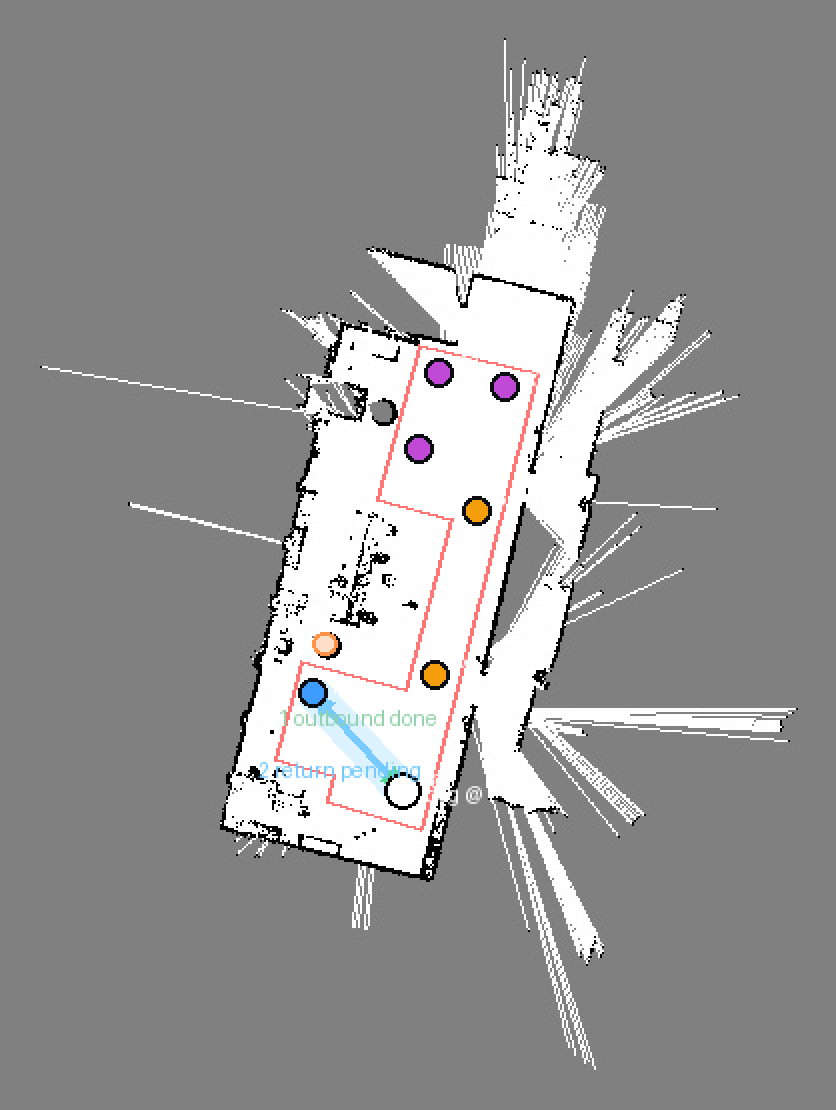
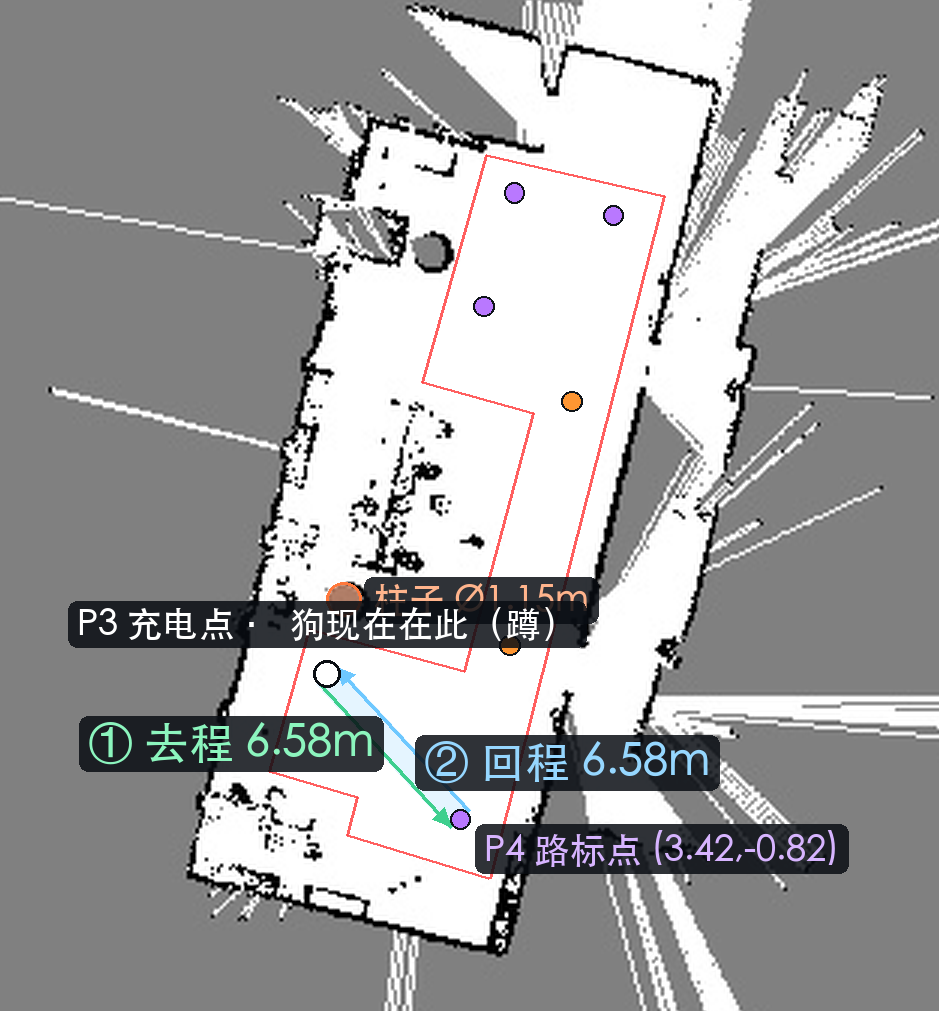
backup: ouxuedongdemacbook-pro 2026-08-06 20:56:35 -0700

diff --git a/artifacts/maps/2420/2420-lab-map.html b/artifacts/maps/2420/2420-lab-map.html
@@ -103,41 +103,62 @@
   </section>
   <aside>
     <div class="warn">
-      🔴 <b>自动蹲下充电：做不到</b><br/>
-      平台充电房配置为空（<code>getRoomPageDate total=0</code>），
-      P3「充电点」只是点位标记，没有关联充电桩。
-      <code>One Key Return</code> 最多把狗走回 P3，<b>不会真的充上电</b>。<br/>
-      ✅ 可做：P4 → P3 拓扑派单回充电点坐标；到站后可在 Body Control 手动点 <code>Crouch</code>。<br/>
-      ⚠ 电量现约 <b>35%</b>，站姿仍在放电；回桩后需人工插线才续航。
+      🔴 <b>本次头号风险：遥控器 START 会让派单空转</b><br/>
+      11:32 与 11:36 两程狗<b>一步没动</b>，平台却双双记
+      <code>result=成功</code>（183 s / 63 s）。原因判断：遥控器进入
+      START 运动模式后持续下发摇杆量（=0），机载按「遥控优先」仲裁，
+      把平台速度压成 0。<br/>
+      ⛔ <b>所以：遥控器要开机（保住 L2+B 急停），但绝不能按 START。</b>
+      保险起见先把遥控器<b>重新开关机一次</b>清掉模式，再用
+      <code>L2+A</code> 让狗站起。
+    </div>
+    <div class="warn">
+      ⚠ <b>「成功」不等于走到了</b>——平台不校验位移。本次判成败只认
+      两条：肉眼看狗真的走 + 大屏图标真的移动。<code>result</code> 字段仅作参考。
     </div>
 
-    <h2>当前状态（11:17 查）</h2>
+    <h2>当前状态（11:50 查）</h2>
     <div class="card recommend">
-      <div>狗在：<strong>路标点 P4</strong>（右下/最下角紫点）</div>
-      <div style="margin-top:4px"><code>(3.42, -0.82)</code> · state=02 空闲 · bat≈35%</div>
+      <div>狗在：<strong>P3 充电点</strong>（蓝点，蹲姿趴在充电板上）</div>
+      <div style="margin-top:4px"><code>(-1.03, 4.03)</code> · state=02 空闲 · bat <b>31%</b></div>
       <div style="margin-top:4px;color:var(--muted);font-size:.82rem">
-        第一次测试已完成 P3→P4；本次只补「回程」即完成往返。
+        自 11:27 起未移动过；11:32 / 11:36 两个「成功」任务均为空转。
       </div>
     </div>
 
-    <h2>拟走路线（往返）</h2>
+    <h2>拟走路线（完整往返）</h2>
     <ol class="plan">
-      <li><span style="color:#8fd0a8">① 去程（已完成）</span>：P3 充电点 → P4 紫路标，6.58 m</li>
-      <li><span style="color:#6ec8ff"><b>② 回程（待确认执行）</b></span>：P4 → P3<br/>
+      <li><span style="color:#8fd0a8"><b>① 去程</b></span>：P3 充电点 → P4 紫路标<br/>
+        <code>pointsId</code>：<code>202607311046080138B2000397</code><br/>
+        距离 <b>6.58 m</b> · 参考耗时 92 s（11:01 真实走通那次）</li>
+      <li><span style="color:#6ec8ff"><b>② 回程</b></span>：P4 → P3 充电点<br/>
         <code>pointsId</code>：<code>202607311045581570B2000397</code><br/>
-        距离 <b>6.58 m</b> · 最窄净空 <b>1.80 m</b>（与去程同线反向）</li>
-      <li><b>③ 到站后</b>：Body Control 手动 <code>Crouch</code>（恢复蹲姿）</li>
-      <li><b>④ 充电</b>：人工插线（平台无法自动对桩）</li>
+        距离 <b>6.58 m</b> · 最窄净空 <b>1.80 m</b> · 参考耗时 63 s</li>
+      <li><b>③ 朝向复位</b>：到站后用<b>平台 Body Control 摇杆</b>转到原朝向
+        （相机里柱子居中≈1.6 m 即复位）。<br/>
+        <span style="color:#ff9c6e">不要用 Redirect——那改的是定位估计，不是狗的真实朝向，
+        会污染刚校准好的定位。</span></li>
+      <li><b>④ 蹲下</b>：Body Control 点 <code>Crouch</code>；充电仍需人工确认</li>
     </ol>
 
-    <h2>执行顺序（确认后）</h2>
+    <h2>执行顺序</h2>
     <ol class="plan">
-      <li>大屏确认狗图标仍在 P4、定位未飘</li>
-      <li>主人回「GO」→ <code>sendNavigate</code> 到充电点 P3</li>
-      <li>盯任务：state 02→03→02；肉眼看狗是否贴到蓝色充电点</li>
-      <li>到站后手动 Crouch；插线充电</li>
-      <li>兜底：遥控 <b>L2+B</b> · 摇杆 🔴STOP · 平台 <code>stopTask</code></li>
+      <li><b>门禁</b>：遥控器关机→开机（清 START 模式）→ <code>L2+A</code> 站起 →
+        <b>不按 START</b> → 主人说「好了」</li>
+      <li>我发去程单 → 派单后 <b>30 s 内狗必须可见地动</b>，否则我立刻
+        <code>stopTask</code> 中止，不再空烧 183 s</li>
+      <li>到 P4 → 主人肉眼确认到位 → 我发回程单（同样 30 s 位移门禁）</li>
+      <li>回到 P3 → Body Control 转朝向 → <code>Crouch</code></li>
+      <li>兜底：遥控 <b>L2+B</b> 软趴 · 大屏 🔴STOP · 平台 <code>stopTask</code></li>
     </ol>
+
+    <div class="card">
+      <div style="color:#ff9c6e"><b>电量 31%，这是本次唯一硬约束</b></div>
+      <div style="margin-top:4px;color:var(--muted);font-size:.82rem">
+        两程合计约 13 m / 3 分钟行走。若门禁反复失败，先停下查原因，
+        不要靠反复派单试错——每次空转 183 s 都在白耗电。
+      </div>
+    </div>
 
     <h2>点位列表</h2>
     <div id="list"></div>
@@ -146,9 +167,10 @@
       <div>🟣 路标 (08)　🟠 巡检 (01)　🔵 充电 (03)</div>
       <div style="margin-top:6px;color:var(--muted);font-size:.85rem">
         细红折线：平台虚拟墙<br/>
-        ⚪ 白点：狗当前在 P4<br/>
-        🟢 绿虚线：去程 P3→P4（已完成）<br/>
-        🔵 青实线+走廊：回程 P4→P3（待执行）<br/>
+        ⚪ 白点：狗当前在 P3（起点=终点）<br/>
+        🟢 绿实线：①去程 P3→P4<br/>
+        🔵 青实线：②回程 P4→P3<br/>
+        淡蓝带：1.0 m 通行走廊（最窄净空 1.80 m）<br/>
         🟠 橙圆：柱子 Ø1.15 m
       </div>
     </div>
@@ -157,11 +179,12 @@
 <script>
 const DATA = {"mapName": "2420实验室", "levelName": "智城-24楼", "mapId": "202607291108383260B2000397", "floor": "1", "origin": [-16.700000762939453, -16.80000114440918], "resolution": 0.10000000149011612, "width": 418, "height": 555, "updated": "2026-07-31 11:07:57", "walls": [{"id": 1785294852216, "group": "wall", "type": "line", "points": [{"x": "4.4001", "y": "-2.7750"}, {"x": "7.3001", "y": "8.6500"}, {"x": "10.2002", "y": "19.9501"}, {"x": "4.2749", "y": "21.3250"}, {"x": "2.1500", "y": "13.7500"}, {"x": "5.8500", "y": "12.7001"}, {"x": "3.5500", "y": "4.1001"}, {"x": "-1.6251", "y": "5.5250"}, {"x": "-2.2501", "y": "3.2500"}, {"x": "-2.9500", "y": "0.7751"}, {"x": "-0.0005", "y": "-0.0750"}, {"x": "-0.3504", "y": "-1.3501"}, {"x": "4.3501", "y": "-2.7749"}], "radius": 0}], "points": [{"n": 1, "pointsId": "202607311046161810B2000397", "pointsName": "快捷打点-1785465976345", "pointsType": "01", "typeLabel": "巡检点", "x": 5.065974674838529, "y": 4.978290045855459, "th": 0.0, "planRole": "alt"}, {"n": 2, "pointsId": "202607311046240382B2000397", "pointsName": "快捷打点-1785465983955", "pointsType": "01", "typeLabel": "巡检点", "x": 7.132928674857798, "y": 13.111709925658147, "th": 0.0, "planRole": "alt"}, {"n": 3, "pointsId": "202607311045581570B2000397", "pointsName": "快捷打点-1785465958663", "pointsType": "03", "typeLabel": "充电点", "x": -1.0337400626370776, "y": 4.028827954520665, "th": 0.0, "planRole": "recommend"}, {"n": 4, "pointsId": "202607311046080138B2000397", "pointsName": "快捷打点-1785465968487", "pointsType": "08", "typeLabel": "路标点", "x": 3.416051836013157, "y": -0.8184258801885669, "th": 0.0, "planRole": "start"}, {"n": 5, "pointsId": "202607311046347938B2000397", "pointsName": "快捷打点-1785465994716", "pointsType": "08", "typeLabel": "路标点", "x": 4.200097960778134, "y": 16.287699999395215, "th": 0.0, "planRole": "candidate"}, {"n": 6, "pointsId": "202607311046294811B2000397", "pointsName": "快捷打点-1785465988928", "pointsType": "08", "typeLabel": "路标点", "x": 8.51581333783703, "y": 19.3218918092863, "th": 0.0, "planRole": "candidate"}, {"n": 7, "pointsId": "202607311046328796B2000397", "pointsName": "快捷打点-1785465992346", "pointsType": "08", "typeLabel": "路标点", "x": 5.2159676601862905, "y": 20.071467144550617, "th": 0.0, "planRole": "candidate"}], "notes": ["坐标来自平台 mapSpot≈ROS origin+resolution；Y 默认按图像向下翻转。", "若点位整体上下颠倒，点「翻转 Y」再对现场。", "接口曾回报：机器人当前未加载地图——阶段 B 前请在大屏加载/重定位「2420实验室」。"]};
 const PLAN = {
-  pose: { x: 3.4161, y: -0.8184, thDeg: null },
+  pose: { x: -1.0337, y: 4.0288, thDeg: null, label: '狗 · 现在在此（蹲）' },
   pillar: { x: -0.46, y: 6.51, r: 0.575 },
-  outbound: { from: [-1.0337, 4.0288], to: [3.4161, -0.8184], dist: 6.58, done: true },
+  outbound: { from: [-1.0337, 4.0288], to: [3.4161, -0.8184], dist: 6.58, done: false },
   inbound: { from: [3.4161, -0.8184], to: [-1.0337, 4.0288], dist: 6.58, minClear: 1.80, done: false },
-  rejected: { from: [-1.0337, 4.0288], to: [5.0660, 4.9783] }
+  rejected: { from: [-1.0337, 4.0288], to: [5.0660, 4.9783] },
+  offsetM: 0.38
 };
 const img = new Image();
 img.src = "map.jpg";
@@ -193,36 +216,40 @@ function arrowHead(from, to, size) {
 }
 function drawRouteLayer() {
   if (!showRoute) return;
-  const outA = worldToCanvas(PLAN.outbound.from[0], PLAN.outbound.from[1]);
-  const outB = worldToCanvas(PLAN.outbound.to[0], PLAN.outbound.to[1]);
-  const inA = worldToCanvas(PLAN.inbound.from[0], PLAN.inbound.from[1]);
-  const inB = worldToCanvas(PLAN.inbound.to[0], PLAN.inbound.to[1]);
+  const rawA = worldToCanvas(PLAN.outbound.from[0], PLAN.outbound.from[1]);
+  const rawB = worldToCanvas(PLAN.outbound.to[0], PLAN.outbound.to[1]);
+  // 往返同线，左右各偏 offsetM 让两程都看得见
+  const dx = rawB[0] - rawA[0], dy = rawB[1] - rawA[1];
+  const L = Math.hypot(dx, dy) || 1;
+  const off = mToPx(PLAN.offsetM);
+  const nx = (-dy / L) * off, ny = (dx / L) * off;
+  const outA = [rawA[0] + nx, rawA[1] + ny], outB = [rawB[0] + nx, rawB[1] + ny];
+  const inA = [rawB[0] - nx, rawB[1] - ny], inB = [rawA[0] - nx, rawA[1] - ny];
 
-  // 去程（已完成）：绿虚线
+  // 共用走廊底色（1.0 m 宽）
   ctx.save();
-  ctx.setLineDash([8, 6]);
-  ctx.strokeStyle = 'rgba(62,207,142,0.55)'; ctx.lineWidth = 2.5;
-  ctx.beginPath(); ctx.moveTo(outA[0], outA[1]); ctx.lineTo(outB[0], outB[1]); ctx.stroke();
-  ctx.restore();
-  ctx.fillStyle = 'rgba(62,207,142,0.7)';
-  arrowHead(outA, outB, 11);
-  const omx = (outA[0] + outB[0]) / 2, omy = (outA[1] + outB[1]) / 2;
-  ctx.fillStyle = '#8fd0a8'; ctx.font = 'bold 11px sans-serif';
-  ctx.fillText('①去程 已完成', omx - 36, omy - 10);
-
-  // 回程走廊 + 青实线
-  ctx.save();
-  ctx.strokeStyle = 'rgba(110,200,255,0.20)';
+  ctx.strokeStyle = 'rgba(110,200,255,0.16)';
   ctx.lineWidth = mToPx(1.0); ctx.lineCap = 'round';
-  ctx.beginPath(); ctx.moveTo(inA[0], inA[1]); ctx.lineTo(inB[0], inB[1]); ctx.stroke();
+  ctx.beginPath(); ctx.moveTo(rawA[0], rawA[1]); ctx.lineTo(rawB[0], rawB[1]); ctx.stroke();
   ctx.restore();
+
+  // ① 去程 P3→P4：绿实线
+  ctx.strokeStyle = 'rgba(62,207,142,0.95)'; ctx.lineWidth = 3.5;
+  ctx.beginPath(); ctx.moveTo(outA[0], outA[1]); ctx.lineTo(outB[0], outB[1]); ctx.stroke();
+  ctx.fillStyle = 'rgba(62,207,142,0.95)';
+  arrowHead(outA, outB, 13);
+  const omx = (outA[0] + outB[0]) / 2, omy = (outA[1] + outB[1]) / 2;
+  ctx.fillStyle = '#8fd0a8'; ctx.font = 'bold 12px sans-serif';
+  ctx.fillText('①去程 6.58m', omx - 30, omy - 12);
+
+  // ② 回程 P4→P3：青实线
   ctx.strokeStyle = 'rgba(110,200,255,0.95)'; ctx.lineWidth = 3.5;
   ctx.beginPath(); ctx.moveTo(inA[0], inA[1]); ctx.lineTo(inB[0], inB[1]); ctx.stroke();
   ctx.fillStyle = 'rgba(110,200,255,0.95)';
   arrowHead(inA, inB, 13);
   const imx = (inA[0] + inB[0]) / 2, imy = (inA[1] + inB[1]) / 2;
   ctx.fillStyle = '#6ec8ff'; ctx.font = 'bold 12px sans-serif';
-  ctx.fillText('②回程 待执行 6.58m', imx - 52, imy + 16);
+  ctx.fillText('②回程 6.58m', imx - 30, imy + 20);
 
   // 柱子
   const pc = worldToCanvas(PLAN.pillar.x, PLAN.pillar.y);
@@ -232,13 +259,13 @@ function drawRouteLayer() {
   ctx.fillStyle = '#ffb08a'; ctx.font = 'bold 11px sans-serif';
   ctx.fillText('柱子 Ø1.15m', pc[0] + mToPx(PLAN.pillar.r) + 4, pc[1] - 4);
 
-  // 狗当前在 P4
+  // 狗当前位置（起点 = 终点 = P3）
   const dp = worldToCanvas(PLAN.pose.x, PLAN.pose.y);
   ctx.beginPath(); ctx.arc(dp[0], dp[1], 8, 0, Math.PI * 2);
   ctx.fillStyle = '#ffffff'; ctx.fill();
   ctx.strokeStyle = '#0a0e13'; ctx.lineWidth = 2; ctx.stroke();
   ctx.fillStyle = '#fff'; ctx.font = 'bold 11px sans-serif';
-  ctx.fillText('狗 · 现在在此', dp[0] + 12, dp[1] + 4);
+  ctx.fillText(PLAN.pose.label, dp[0] + 12, dp[1] + 4);
 }
 function draw() {
   const cssW = Math.min(720, (cv.parentElement.clientWidth || 720));
